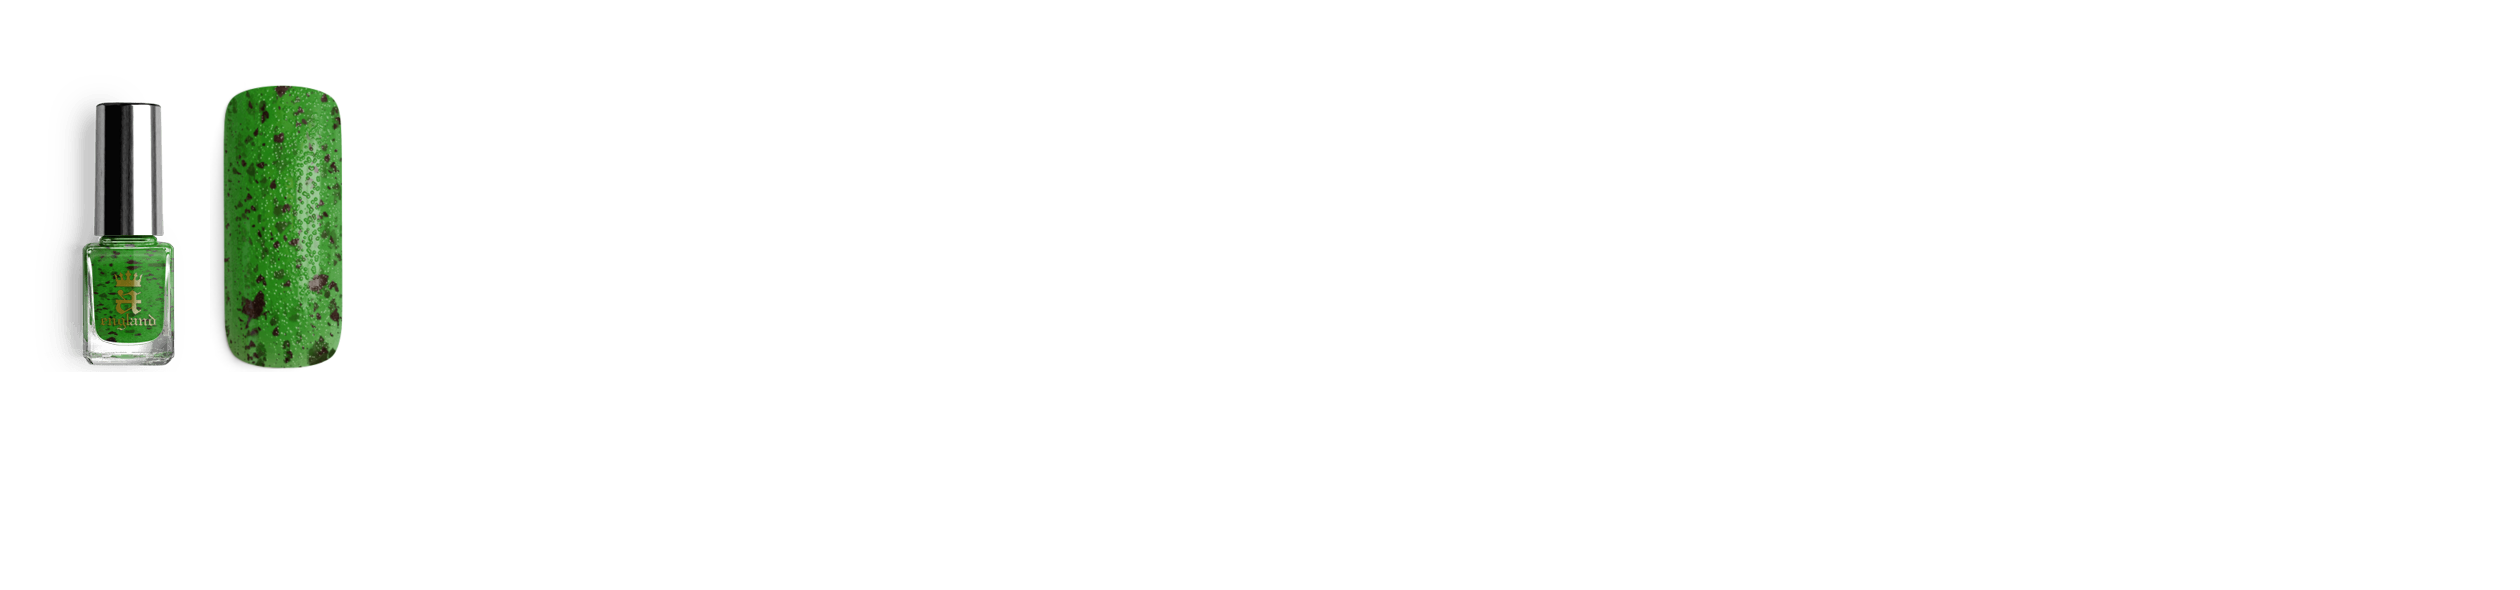
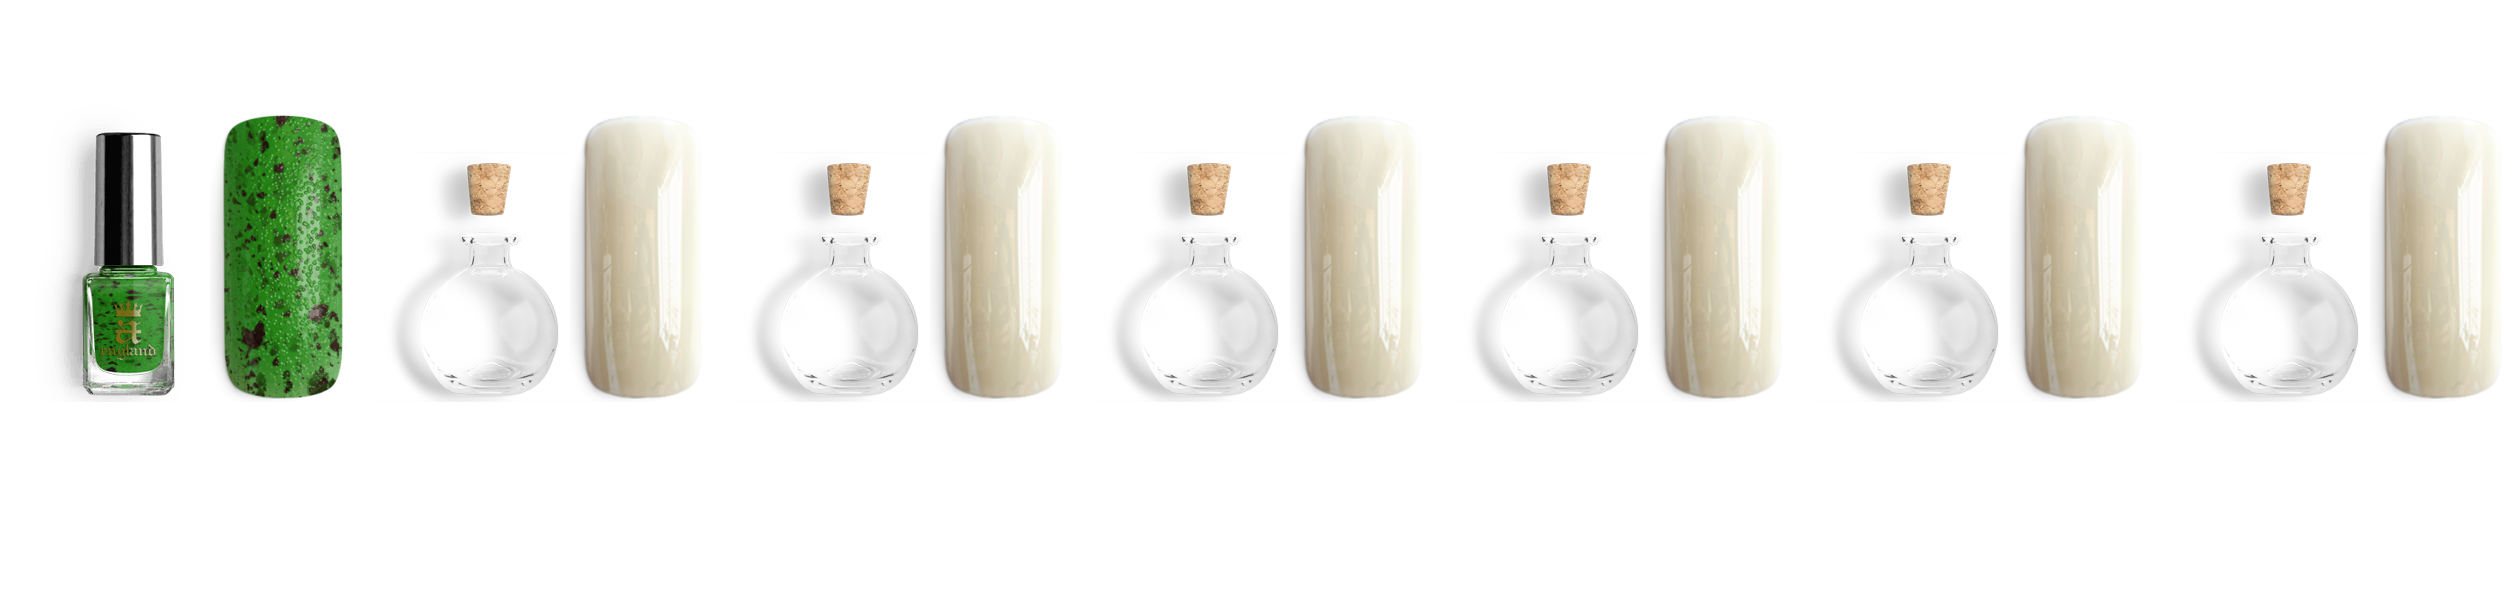
Kirsty invites

Changed region(s): [[0.0, 0.122, 0.9905, 0.6712]]

diff --git a/app/models/box.rb b/app/models/box.rb
@@ -85,7 +85,7 @@ class Box < ActiveRecord::Base
     return stats
   end
   
-  def export_image collection, bg = 'transparent', columns = 4, note = false, bottle = false, nail = false
+  def export_image collection, bg = 'transparent', columns = 4, note = false, bottle = false, nail = false, rating = false
     path = Rails.root.join('public').to_s
     output_folder = "/downloads/#{self.user_id}"
     FileUtils.mkdir_p(path + output_folder) unless File.directory?(path + output_folder)    
@@ -97,13 +97,14 @@ class Box < ActiveRecord::Base
       if ((index + 1).modulo(columns) == 0 ) || index == (polishes.size - 1)
         row_items.reverse.each_with_index do |p,i|
           if bottle && nail
-            stack += " \\( #{path + (p.draft ? '/assets/draft.png' : p.bottle_url)} -geometry +#{(row_items.size - i - 1) * 360}+#{p.draft ? 92 : 0} \\) -composite "
-            stack += " \\( #{path + '/assets/preview_shadow.png'} -geometry 145x290+#{(row_items.size - i - 1) * 360 + 210}+82 \\) -composite "
-            stack += " \\( #{path + p.preview_url} -geometry 155x290+#{(row_items.size - i - 1) * 360 + 205}+82 \\) -composite " unless p.draft
+            stack += " \\( #{path + (p.draft ? '/assets/draft.png' : p.bottle_url)} -geometry +#{(row_items.size - i - 1) * 360}+30 \\) -composite "
+            stack += " \\( #{path + '/assets/preview_shadow.png'} -geometry 145x290+#{(row_items.size - i - 1) * 360 + 210}+112 \\) -composite "
+            stack += " \\( #{path + p.preview_url} -geometry 155x290+#{(row_items.size - i - 1) * 360 + 205}+112 \\) -composite " unless p.draft
             if note
-              stack += " \\( -size 310 -gravity center -background transparent  pango:\"<span  size='23000' face='PT Sans Narrow'>#{p.brand_name}\\n#{!p.number.blank? && !p.name.blank? ? p.number + ' <b>' + p.name + '</b>' : !p.number.blank? ? p.number : '<b>' + p.name + '</b>'}</span>\" -gravity NorthWest -geometry +#{(row_items.size - i - 1) * 360 + 35}+377 \\) -composite "              
+              stack += " \\( -size 310 -gravity center -background transparent  pango:\"<span  size='23000' face='PT Sans Narrow'>#{p.brand_name}\\n#{!p.number.blank? && !p.name.blank? ? p.number + ' <b>' + p.name + '</b>' : !p.number.blank? ? p.number : '<b>' + p.name + '</b>'}</span>\" -gravity NorthWest -geometry +#{(row_items.size - i - 1) * 360 + 35}+407 \\) -composite "              
             else
-              stack += " \\( -size 310 -gravity center -background transparent  pango:\"<span  size='23000' face='PT Sans Narrow'>#{p.brand_name}\\n#{!p.number.blank? && !p.name.blank? ? p.number + ' <b>' + p.name + '</b>' : !p.number.blank? ? p.number : '<b>' + p.name + '</b>'}</span>\" -gravity NorthWest -geometry +#{(row_items.size - i - 1) * 360 + 35}+377 \\) -composite "
+              stack += " \\( -size 310 -gravity center -background transparent  pango:\"<span  size='23000' face='PT Sans Narrow'>#{p.brand_name}\\n#{!p.number.blank? && !p.name.blank? ? p.number + ' <b>' + p.name + '</b>' : !p.number.blank? ? p.number : '<b>' + p.name + '</b>'}</span>\" -gravity NorthWest -geometry +#{(row_items.size - i - 1) * 360 + 35}+407 \\) -composite "
+              # stack += " #{path}"
             end
           elsif bottle
             stack += " \\( #{path + (p.draft ? '/assets/draft.png' : p.bottle_url)} -geometry +#{(row_items.size - i - 1) * 250}+#{p.draft ? 92 : 0} \\) -composite "
